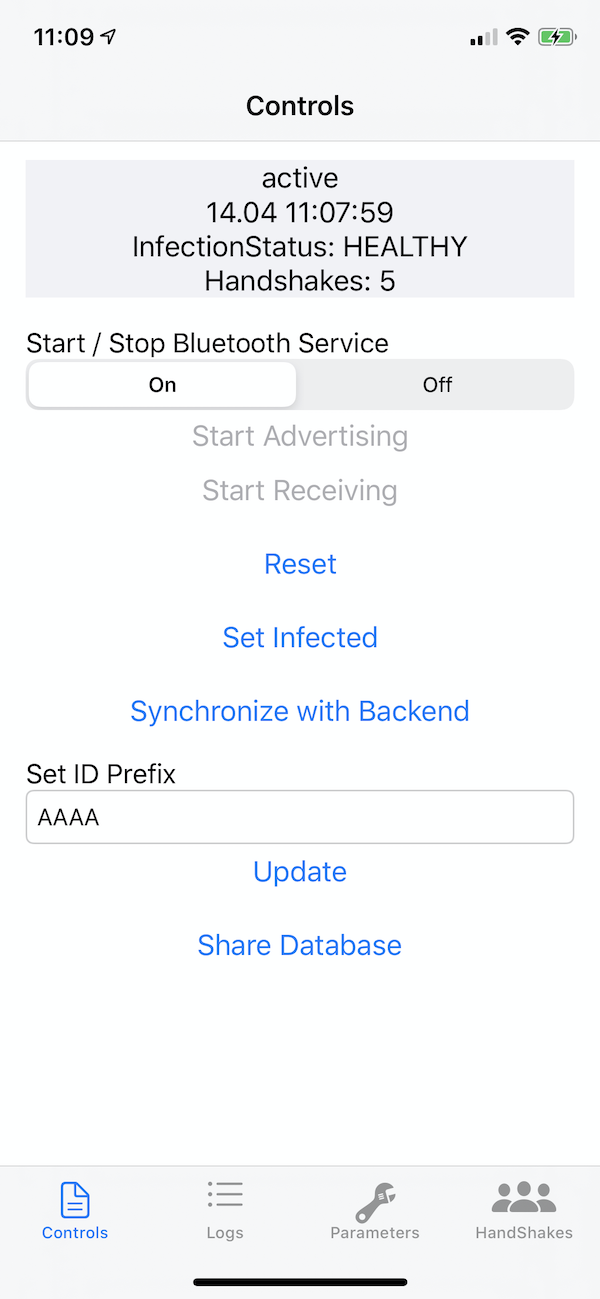
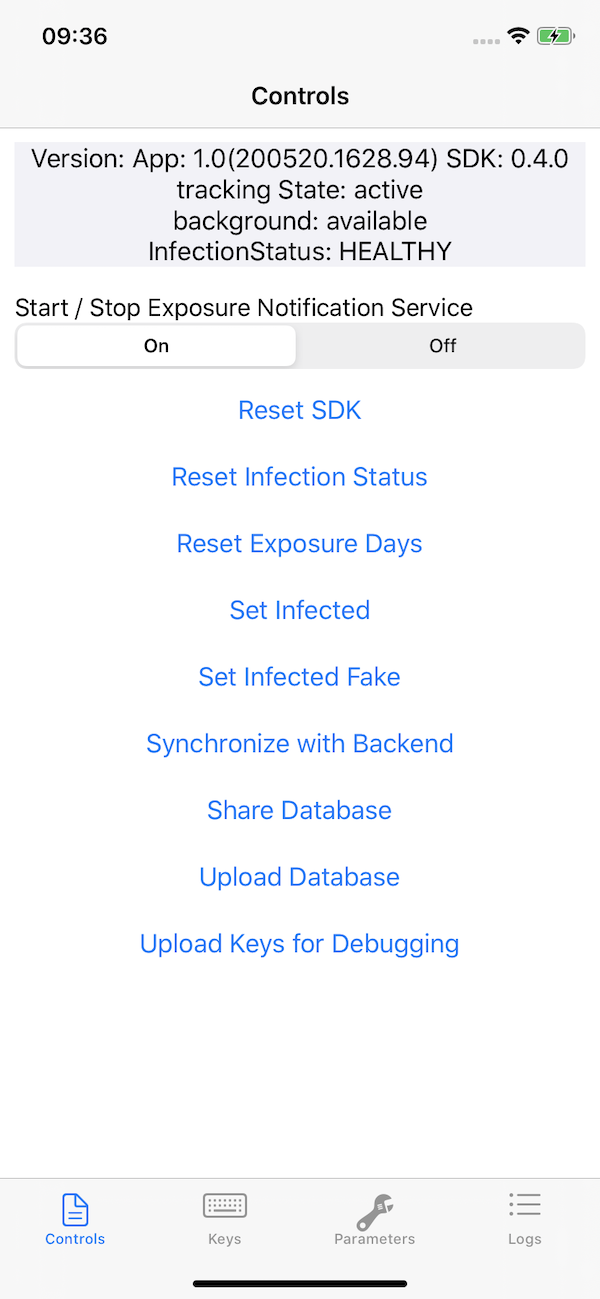
updates readme and version

diff --git a/Sources/DP3TSDK/DP3TTracing.swift b/Sources/DP3TSDK/DP3TTracing.swift
@@ -23,7 +23,7 @@ private var instance: DP3TSDK!
 /// DP3TTracing
 public enum DP3TTracing {
     /// The current version of the SDK
-    public static let frameworkVersion: String = "0.1.12"
+    public static let frameworkVersion: String = "0.4.0"
 
     /// sets global parameter values which are used throughout the sdk
     public static var parameters: DP3TParameters {

diff --git a/README.md b/README.md
@@ -10,9 +10,9 @@ DP-3T is a free-standing effort started at EPFL and ETHZ that produced this prot
 
 
 ## Introduction
-This is the first implementation of the DP-3T "low bandwidth" protocol. The current implementation does not use the as yet unreleased "Contact Tracing" API of Apple/Google--**and has limitations as a result**. Our "hybrid approach" uses Bluetooth Low Energy (BLE) to exchange `EphID`s. It uses advertisements whenever possible and falls back to GATT Server connections if not possible to transmit/collect an `EphID` this way (e.g., on iOS devices when the app is in background). This approach can result in higher energy consumption and scalability issues and will be replaced by the Apple/Google API.
+This is the first implementation of the DP-3T protocol using the [Exposure Notification](https://developer.apple.com/documentation/exposurenotification) Framework of Apple/Google. Only approved government public health authorities can access the APIs. Therefore, using this SDK will result in an API error unless you were granted the `com.apple.developer.exposure-notification` entitlement by apple. Therefore the minimum deployment target is iOS 13.5.
 
-Our immediate roadmap is: to support the Apple/Google wire protocol, to be forward-compatible, and to support the actual Apple/Google API as soon as it is released to iOS and Android devices.
+Our prestandard solution that is not using the Apple/Google framework can be found under the [tag prestandard](https://github.com/DP-3T/dp3t-sdk-ios/tree/prestandard).
 
 ## Repositories
 * Android SDK & Calibration app: [dp3t-sdk-android](https://github.com/DP-3T/dp3t-sdk-android)
@@ -46,16 +46,16 @@ Included in this repository is a Calibration App that can run, debug and test th
 ### Initialization
 Name | Description | Function Name
 ---- | ----------- | -------------
-init | Initializes the SDK and configures it | `func initialize(with appinfo: DP3TApplicationInfo)` 
+init | Initializes the SDK and configures it | `initialize(applicationDescriptor:urlSession:backgroundHandler)` 
 
 ### Methods 
 Name | Description | Function Name
 ---- | ----------- | -------------
-startTracing | Starts Bluetooth tracing | `func startTracing() throws`
-stopTracing | Stops Bluetooth tracing | `func stopTracing()`
-sync | Pro-actively triggers sync with backend to refresh exposed list | `func sync(callback: ((Result<Void, DP3TTracingErrors>) -> Void)?)`
-status | Returns a TracingState-Object describing the current state. This contains:<br/>- `numberOfHandshakes` : `Int` <br /> - `trackingState` : `TrackingState` <br /> - `lastSync` : `Date` <br /> - `infectionStatus`:`InfectionStatus`<br /> - `backgroundRefreshState`:`UIBackgroundRefreshStatus ` | `func status(callback: (Result<TracingState, DP3TTracingErrors>) -> Void)`
-iWasExposed | This method must be called upon positive test. | `func iWasExposed(onset: Date, authString: String, callback: @escaping (Result<Void, DP3TTracingErrors>) -> Void)`
+startTracing | Starts Bluetooth tracing | `func startTracing(completionHandler: )throws` 
+stopTracing | Stops Bluetooth tracing | `func stopTracing(completionHandler:)` 
+sync | Pro-actively triggers sync with backend to refresh exposed list | `func sync(callback:)` 
+status | Returns a TracingState-Object describing the current state. This contains:<br/>- `numberOfHandshakes` : `Int` <br /> - `trackingState` : `TrackingState` <br /> - `lastSync` : `Date` <br /> - `infectionStatus`:`InfectionStatus`<br /> - `backgroundRefreshState`:`UIBackgroundRefreshStatus ` | `func status(callback:)` 
+iWasExposed | This method must be called upon positive test. | `func iWasExposed(onset:authentication:isFakeRequest:callback:)` 
 reset | Removes all SDK related data (key and database) and de-initializes SDK | `func reset() throws`
 
 
@@ -81,7 +81,7 @@ DP3T-SDK is available through [Cocoapods](https://cocoapods.org/)
 
   ```ruby
 
-  pod 'DP3TSDK', => '0.0.2'
+  pod 'DP3TSDK', => '0.4.0'
 
   ```
 
@@ -93,23 +93,11 @@ This version points to the HEAD of the `develop` branch and will always fetch th
 
 In your AppDelegate in the `didFinishLaunchingWithOptions` function you have to initialize the SDK.
 
-There are two ways to initialize the SDK:
-
-##### By using the discovery
-
-The provided app has to be registered in the discovery service on [Github](https://github.com/DP-3T/dp3t-discovery) by issuing a pull request.
-
-```swift
-try DP3TTracing.initialize(with: .discovery("com.example.your.app", enviroment: .prod))
-```
-##### By manually specifying the backend url
-
 ```swift
 let url = URL(string: "https://example.com/your/api/")!
-try DP3TTracing.initialize(with: .manual(.init(appId: "com.example.your.app", 
-                                               bucketBaseUrl: url,
-                                               reportBaseUrl: url,
-                                               jwtPublicKey: data)))
+try! DP3TTracing.initialize(with: .init(appId: "com.example.your.app", 
+                                        bucketBaseUrl: url, 
+                                        reportBaseUrl: url))
 ```
 
 ##### 
@@ -158,7 +146,7 @@ The SDK will call your delegate on every state change, this includes: Handshake 
 
 ### Report user exposed
 ```swift
-DP3TTracing.iWasExposed(onset: Date(), authString: "") { result in
+DP3TTracing.iWasExposed(onset: Date(), authentication: .none) { result in
 	// Handle result here
 }
 ```
@@ -173,7 +161,7 @@ DP3TTracing.sync() { result in
 
 #### Background Tasks
 
-The SDK supports iOS 13 Background tasks. To enable them the app has to support the `Background fetch` capability and include  `org.dpppt.exposure-notification` in the `BGTaskSchedulerPermittedIdentifiers`  `Info.plist` property.
+The SDK supports iOS 13 Background tasks. To enable them the app has to support the `Background process` capability and include  `org.dpppt.exposure-notification` in the `BGTaskSchedulerPermittedIdentifiers`  `Info.plist` property.
 
 `Info.plist` sample:
 
@@ -188,6 +176,6 @@ The SDK supports iOS 13 Background tasks. To enable them the app has to support 
 </array>
 ```
 
-
 ## License
+
 This project is licensed under the terms of the MPL 2 license. See the [LICENSE](LICENSE) file.

diff --git a/CHANGELOG.md b/CHANGELOG.md
@@ -1,5 +1,9 @@
 # Changelog for DP3T-SDK iOS
 
+## Version 0.4.0 (21.05.2020)
+
+- switched to GAEN framework
+
 ## Version 0.1.12 (05.5.2020)
 - Change 16bit UUID to DP3T registered FD68
 - simplified handshake to contact conversion
